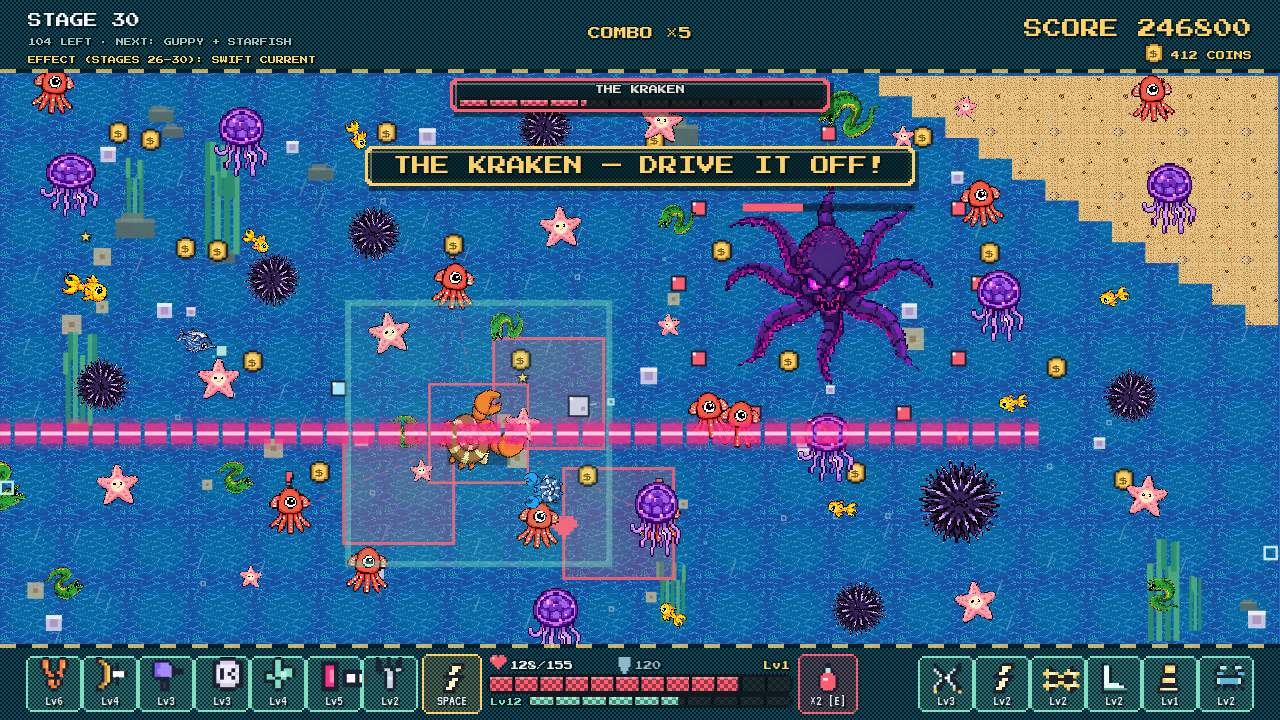
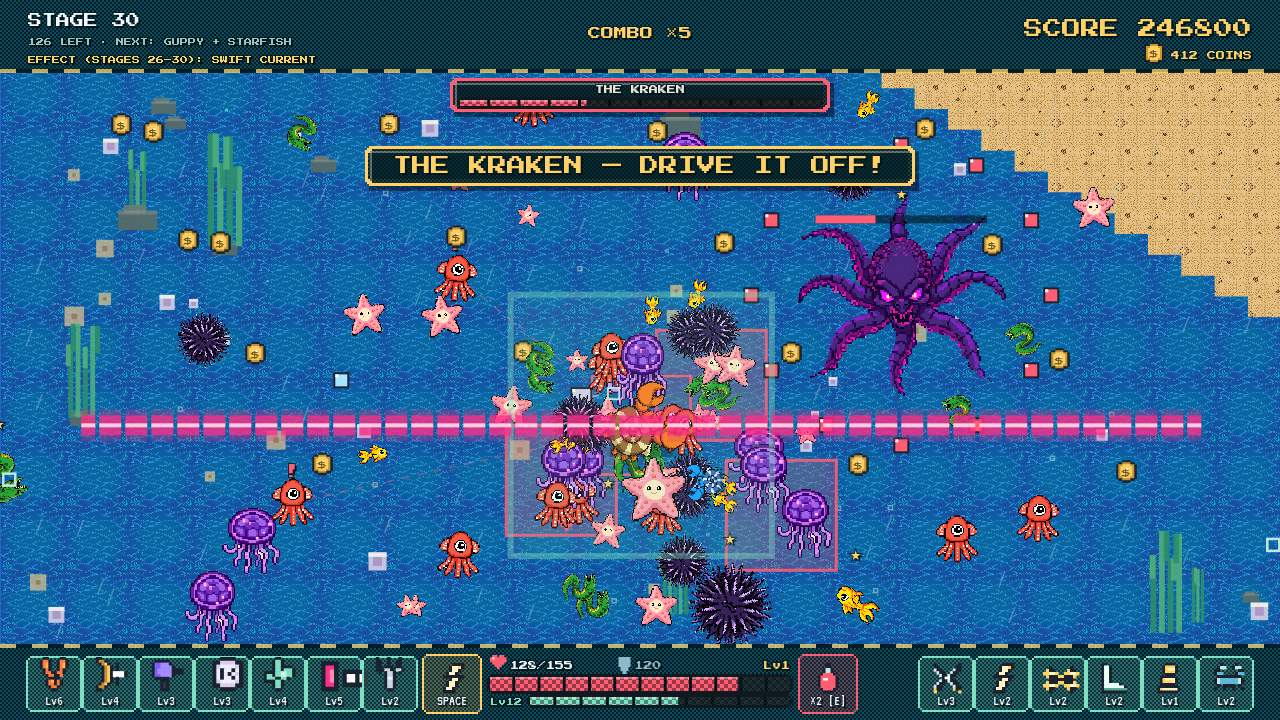
v1.2: re-stage kraken cover as a real gameplay pile - 40 enemies swarming the centered crab, kraken closer (291px), 30 stragglers rushing in from all sides

diff --git a/game/src/shots.js b/game/src/shots.js
@@ -149,15 +149,19 @@ export function stageShot(shot, seed, fx, audio) {
     poseBossShot(s, 'kraken');
     s.player.laserLen = 560;
     const b = s.boss; b.hp = Math.round(b.maxHp * 0.35);
+    s.player.x = 640; b.x = 900; b.y = 300;
+    for (const c of b.slamSpots) c.x += 160;
     s.combo = 18; s.comboT = 3;
-    s.pet.x = 545; s.pet.y = 485;
+    s.pet.x = 705; s.pet.y = 485;
     const types = 'squid,jelly,guppy,urchin,starfish,eel,mini'.split(',');
-    for (let i = 0; i < 48; i += 1) {
-      const e = spawnEnemy(s, types[i % 7], i % 11 === 5);
-      e.x = 90 + (i % 8) * 150 + (i * 37) % 70 - 35;
-      e.y = 115 + (i / 8 | 0) * 95 + (i * 53) % 60 - 30;
-      const dx = e.x - 830, dy = e.y - 280, d = Math.hypot(dx, dy) || 1;
-      if (d < 165) { e.x = 830 + dx / d * 165; e.y = 280 + dy / d * 165; }
+    for (let i = 0; i < 70; i += 1) {
+      const e = spawnEnemy(s, types[i % 7], i % 13 === 6);
+      const a = i * 2.39996;
+      const r = i < 40 ? 30 + (i * 53) % 110 : 160 + (i * 71) % 390;
+      e.x = Math.min(1190, Math.max(90, s.player.x + Math.cos(a) * r));
+      e.y = Math.min(610, Math.max(110, s.player.y + Math.sin(a) * r * 0.85));
+      const dx = e.x - b.x, dy = e.y - b.y, d = Math.hypot(dx, dy) || 1;
+      if (d < 130) { e.x = b.x + dx / d * 130; e.y = b.y + dy / d * 130; }
     }
     for (let i = 0; i < 12; i += 1) {
       const a = i * Math.PI / 6;
